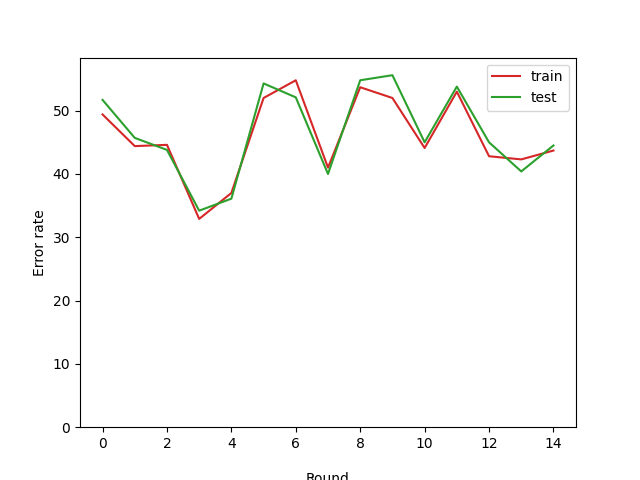
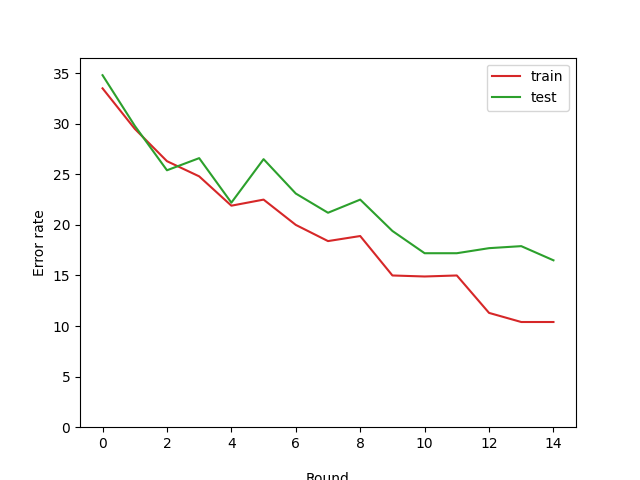
CNN updated

diff --git a/project1/modelclass.py b/project1/modelclass.py
@@ -2,6 +2,7 @@ from abc import abstractmethod
 
 import torch
 from torch import nn
+from torch.nn import functional as F
 from torch import optim
 
 
@@ -66,7 +67,7 @@ class Model(nn.Module):
         """
 
         train_input, train_target, train_classes, \
-            test_input, test_target, test_classes = self.generate_data(self.sets_size)
+        test_input, test_target, test_classes = self.generate_data(self.sets_size)
 
         if self.useAuxiliary:
             train_input = train_input.view(-1, 1, 14, 14)
@@ -81,37 +82,36 @@ class Model(nn.Module):
         return train_err_rate, test_err_rate, losses
 
     def _train(self, train_input, train_target, train_classes):
-            """ Train the model """
-            criterion = nn.CrossEntropyLoss()
-            optimizer = optim.SGD(self.parameters(), self.lr)
+        """ Train the model """
+        criterion = nn.CrossEntropyLoss()
+        optimizer = optim.SGD(self.parameters(), self.lr)
 
-            losses = []
+        losses = []
 
-            for e in range(self.epochs):
-                for b in range(0, train_input.size(0), self.batch_size):
+        for e in range(self.epochs):
+            for b in range(0, train_input.size(0), self.batch_size):
 
-                    if self.useAuxiliary:
-                        digit_class, final_class = self(train_input.narrow(0, b, self.batch_size))
-                        loss = criterion(
-                            final_class,
-                            train_target.narrow(0, b // 2, self.batch_size // 2)
-                        ) + criterion(
-                            digit_class,
-                            train_classes.narrow(0, b, self.batch_size)
-                        )
+                if self.useAuxiliary:
+                    digit_class, final_class = self(train_input.narrow(0, b, self.batch_size))
+                    loss = criterion(
+                        final_class,
+                        train_target.narrow(0, b // 2, self.batch_size // 2)
+                    ) + criterion(
+                        digit_class,
+                        train_classes.narrow(0, b, self.batch_size)
+                    )
 
-                    else:
-                        final_class = self(train_input.narrow(0, b, self.batch_size))
-                        loss = criterion(final_class, train_target.narrow(0, b, self.batch_size))
+                else:
+                    final_class = self(train_input.narrow(0, b, self.batch_size))
+                    loss = criterion(final_class, train_target.narrow(0, b, self.batch_size))
 
-                    self.zero_grad()
-                    loss.backward()
-                    optimizer.step()
+                self.zero_grad()
+                loss.backward()
+                optimizer.step()
 
-                    losses.append(loss.data.item())
+                losses.append(loss.data.item())
 
-            return losses
-
+        return losses
 
     # --- Private methods --- #
 

diff --git a/project1/models.py b/project1/models.py
@@ -103,32 +103,39 @@ class CNN(Model):
     def __init__(self, f_gen_data, nb_epochs=25, mini_batch_size=100, learning_rate=1e-3):
         super().__init__(f_gen_data, nb_epochs, mini_batch_size, learning_rate)
 
-        self.conv1 = nn.Conv2d(2, 32, kernel_size=5)
-        self.bn1 = nn.BatchNorm2d(32)
+        self.conv1 = nn.Conv2d(2, 16, kernel_size=5, padding=3)
+        self.bn1 = nn.BatchNorm2d(16)
 
-        self.conv2 = nn.Conv2d(32, 16, kernel_size=5)
-        self.bn2 = nn.BatchNorm2d(16)
+        self.conv2 = nn.Conv2d(16, 20, kernel_size=5, padding=3)
+        self.bn2 = nn.BatchNorm2d(20)  # TODO discuss that
 
-        self.fc1 = nn.Linear(576, 200)
+        self.fc1 = nn.Linear(500, 200)
         self.fc2 = nn.Linear(200, 10)
         self.fc3 = nn.Linear(10, 2)
 
     def forward(self, x):
-        x = self.conv1(x)
+        # conv1
+        x = F.relu(self.conv1(x))
         x = self.bn1(x)
-        x = F.relu(x)
+        x = F.max_pool2d(x, kernel_size=2)
 
-        x = self.conv2(x)
+        # conv2
+        x = F.relu(self.conv2(x))
         x = self.bn2(x)
-        x = F.relu(x)
+        x = F.max_pool2d(x, kernel_size=2)
 
+        # flatten the input
         x = x.view(x.size()[0], -1)
+
+        # fc1
         x = self.fc1(x)
         x = F.relu(x)
 
-        x = self.fc2(x)
-        x = self.fc3(x)
-        x = F.relu(x)
+        # fc2
+        x = F.relu(self.fc2(x))
+
+        # fc3
+        x = F.relu(self.fc3(x))
         return x
 
 

diff --git a/project1/test.py b/project1/test.py
@@ -36,20 +36,22 @@ def train_and_test_rounds(model, nb_rounds, test_id):
 def main():
     number_rounds = 15
 
-    model1 = Baseline(generate_pair_sets)
-    mRes1 = train_and_test_rounds(model1, number_rounds, "Baseline")
+    # model1 = Baseline(generate_pair_sets)
+    # mRes1 = train_and_test_rounds(model1, number_rounds, "Baseline")
+    #
+    # model2 = Auxiliary(generate_pair_sets)
+    # mRes2 = train_and_test_rounds(model2, number_rounds, "Auxiliary")
 
-    model2 = Auxiliary(generate_pair_sets)
-    mRes2 = train_and_test_rounds(model2, number_rounds, "Auxiliary")
-
+    # model1 = CNN(generate_pair_sets)
+    # model2 = CNN(generate_pair_sets)
     model3 = CNN(generate_pair_sets)
     mRes3 = train_and_test_rounds(model3, number_rounds, "CNN")
 
-    model4 = CNN_Auxiliary(generate_pair_sets)
-    mRes4 = train_and_test_rounds(model4, number_rounds, "CNN_Aux")
+    # model4 = CNN_Auxiliary(generate_pair_sets)
+    # mRes4 = train_and_test_rounds(model4, number_rounds, "CNN_Aux")
 
-    plot_model_result(mRes1, number_rounds)
-    plot_models_results_comparison([mRes1, mRes2, mRes3, mRes4], number_rounds, True)
+    plot_model_result(mRes3, number_rounds)
+    # plot_models_results_comparison([mRes1, mRes2, mRes3, mRes4], number_rounds, True)
 
     # plot_model_result(mRes2, number_rounds)
     # plot_models_results_comparison([mRes1, mRes2], number_rounds, True)
